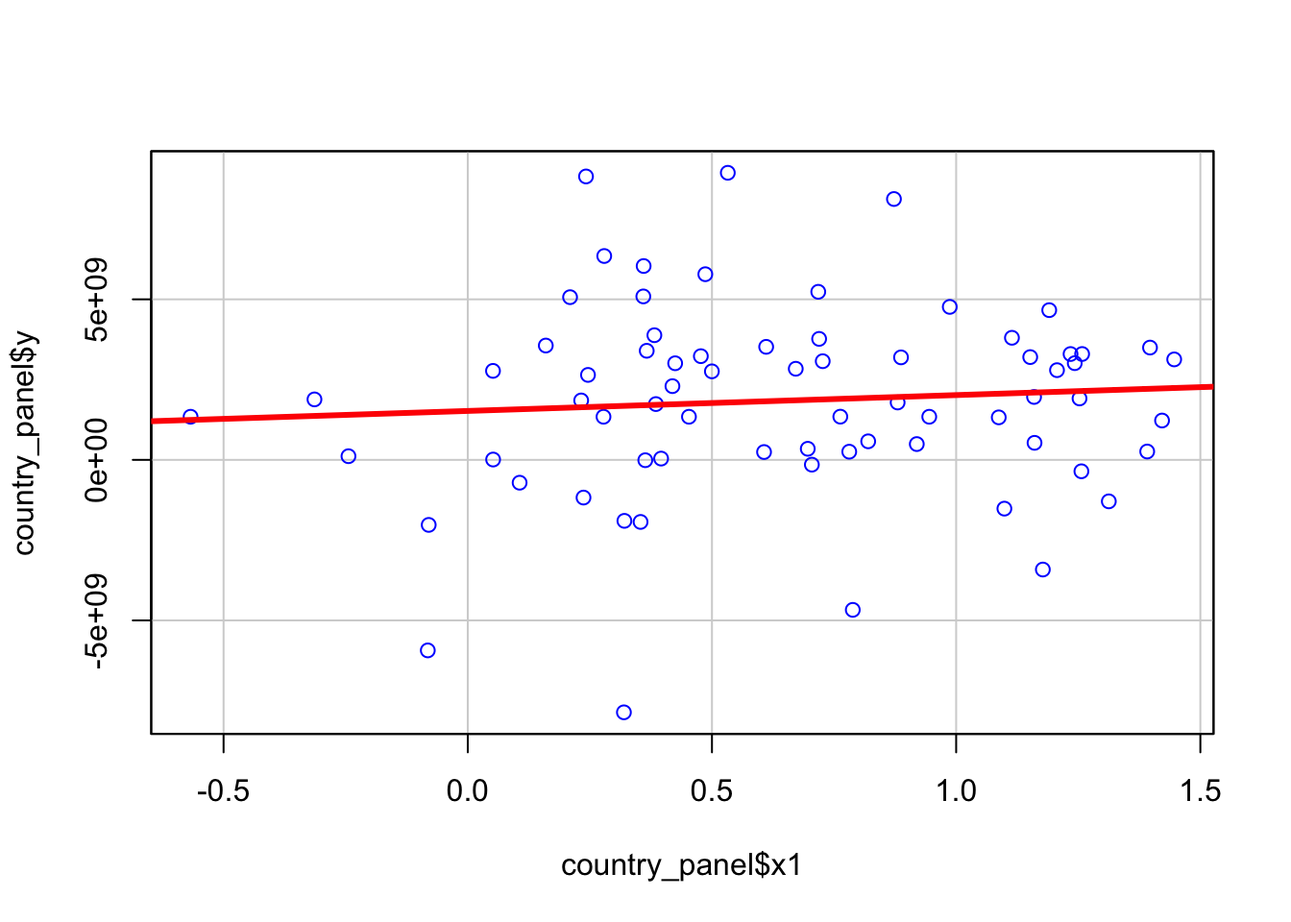
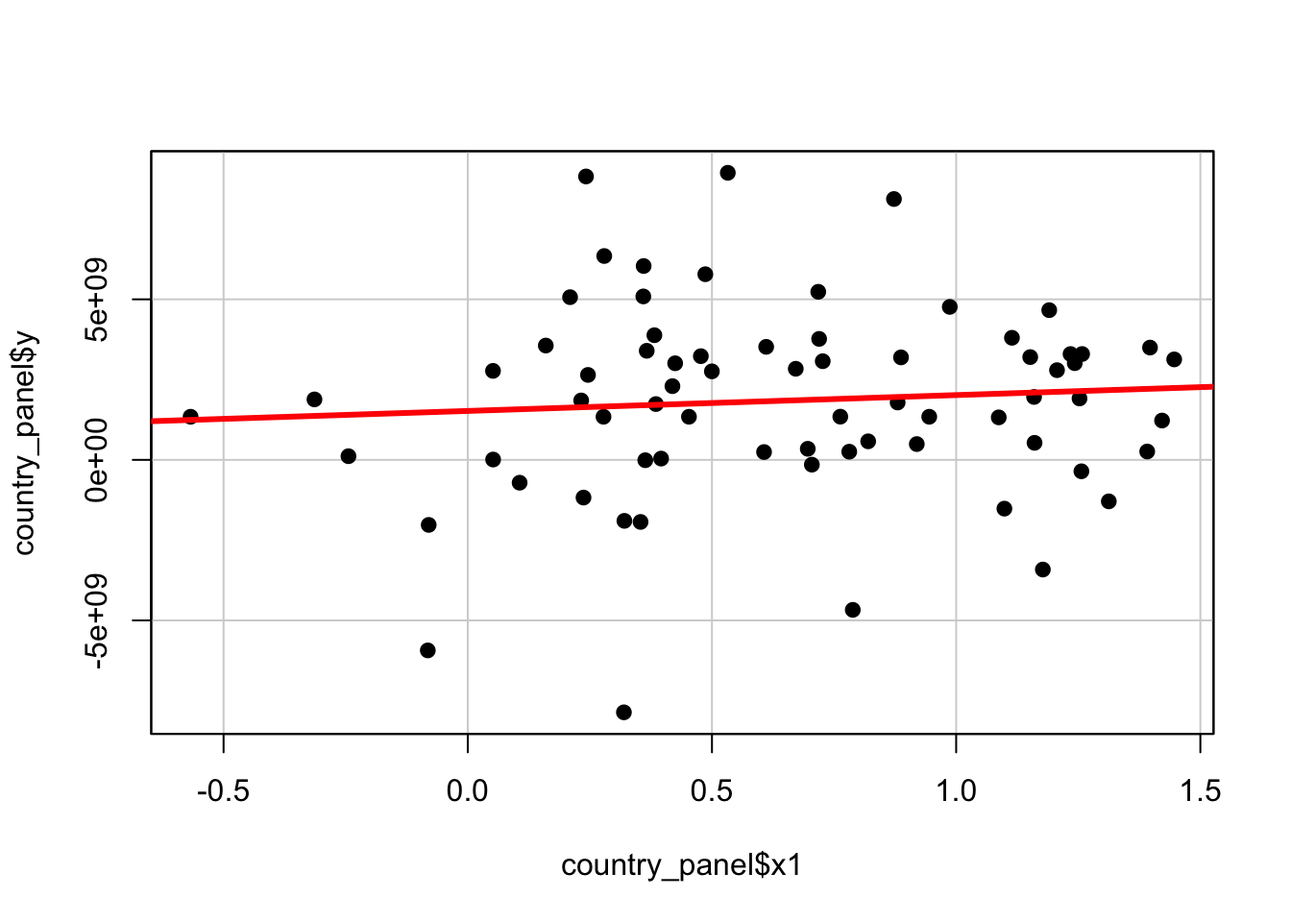
finish fixed effects section

diff --git a/docs/statistical-inference-and-causality.html b/docs/statistical-inference-and-causality.html
@@ -157,8 +157,7 @@ code span.wa { color: #60a0b0; font-weight: bold; font-style: italic; } /* Warni
 <ul>
 <li class="chapter" data-level="1.3.1" data-path="statistical-inference-and-causality.html"><a href="statistical-inference-and-causality.html#what-is-causality"><i class="fa fa-check"></i><b>1.3.1</b> What is causality?</a></li>
 <li class="chapter" data-level="1.3.2" data-path="statistical-inference-and-causality.html"><a href="statistical-inference-and-causality.html#the-problem-with-causality"><i class="fa fa-check"></i><b>1.3.2</b> The problem with causality</a></li>
-<li class="chapter" data-level="1.3.3" data-path="statistical-inference-and-causality.html"><a href="statistical-inference-and-causality.html#fixed-effect-models"><i class="fa fa-check"></i><b>1.3.3</b> Fixed-effect models</a></li>
-<li class="chapter" data-level="1.3.4" data-path="statistical-inference-and-causality.html"><a href="statistical-inference-and-causality.html#random-effect-models"><i class="fa fa-check"></i><b>1.3.4</b> Random-effect models</a></li>
+<li class="chapter" data-level="1.3.3" data-path="statistical-inference-and-causality.html"><a href="statistical-inference-and-causality.html#random-effect-models"><i class="fa fa-check"></i><b>1.3.3</b> Random effect models</a></li>
 </ul></li>
 <li class="chapter" data-level="1.4" data-path="statistical-inference-and-causality.html"><a href="statistical-inference-and-causality.html#take-home-message"><i class="fa fa-check"></i><b>1.4</b> Take home message</a></li>
 <li class="chapter" data-level="1.5" data-path="statistical-inference-and-causality.html"><a href="statistical-inference-and-causality.html#attributions_w02"><i class="fa fa-check"></i><b>1.5</b> Attributions</a></li>
@@ -261,20 +260,18 @@ predictive patterns” (Bzdok <em>et al.</em> 2018).</p>
 <div class="note">
 <p>This section heavily borrows material and explanations from Nick Huntington-Klein’s excellent <a href="http://www.nickchk.com/econ305.html">ECON 305: Economics, Causality, and Analytics</a> module, do have a look if you want to learn more about this topic.</p>
 </div>
-<p>This brings us to econometrics and causal inference: the main goal of causal inference is to make the best possible estimation of what <span class="math inline">\(Y\)</span> would have been if <span class="math inline">\(X\)</span> would have been different, the so-called <strong>counterfactual</strong>. As we cannot always use an experiment in which we can randomly assign <span class="math inline">\(X\)</span> so that we know that on average people with <span class="math inline">\(X=1\)</span> and the same as people with <span class="math inline">\(X=2\)</span>, we have to come up with a model to figure out what the counterfactual would do. In the following, we will explore two ways of doing this through so-called fixed-effect models and random effect-models in the situation in which we have data points for each observation across time (i.e. <a href="https://en.wikipedia.org/wiki/Longitudinal_study">longitudinal data</a> or <a href="https://en.wikipedia.org/wiki/Panel_data">panel data</a>).</p>
-</div>
-<div id="fixed-effect-models" class="section level3" number="1.3.3">
-<h3><span class="header-section-number">1.3.3</span> Fixed-effect models</h3>
-<p>Fixed effects are variables that are constant across individuals; these variables, like age, sex, or ethnicity, typically do not change over time or change over time at a constant rate. As such, they have fixed effects on a dependent variable <span class="math inline">\(Y\)</span>. Let’s have a closer look at dealing with fixed-effects in the context of panel data.</p>
+<p>This brings us to econometrics and causal inference: the main goal of causal inference is to make the best possible estimation of what <span class="math inline">\(Y\)</span> would have been if <span class="math inline">\(X\)</span> would have been different, the so-called <strong>counterfactual</strong>. As we cannot always use an experiment in which we can randomly assign <span class="math inline">\(X\)</span> so that we know that on average people with <span class="math inline">\(X=1\)</span> and the same as people with <span class="math inline">\(X=2\)</span>, we have to come up with a model to figure out what the counterfactual would do. In the following, we will explore two ways of doing this through so-called fixed effect models and random effect models in the situation in which we have data points for each observation across time (i.e. <a href="https://en.wikipedia.org/wiki/Longitudinal_study">longitudinal data</a> or <a href="https://en.wikipedia.org/wiki/Panel_data">panel data</a>).</p>
+<p>###Fixed effect models
+Fixed effects are variables that are constant across individuals; these variables, like age, sex, or ethnicity, typically do not change over time or change over time at a constant rate. As such, they have fixed effects on a dependent variable <span class="math inline">\(Y\)</span>. As such, using a fixed effect model you can explore the relationship between variables within an entity (which could be persons, companies, countries, etc.). Each entity has its own individual charactersitics that may or may not influence the dependent variable. When using a fixed effect model, we assume that something within the entity may impact or bias the dependent variables and we need to control for this. A fixed effect model does this by removing the characteristics that do not change over time so that we can assess the net effect of the independent variables on the dependent variable.</p>
 <div id="video-fixed-effect-models" class="section level4 unnumbered">
-<h4>Video: Fixed-effect models</h4>
+<h4>Video: fixed effect models</h4>
 <p><div class="vembedr" align="left">
 <div>
 <iframe src="https://web.microsoftstream.com/embed/video/?autoplay=false&amp;showinfo=true" width="533" height="300" style="border:none;"></iframe>
 </div>
 </div>
 <a href="">[Lecture slides]</a> <a href="">[Watch on MS stream]</a></p>
-<p>Let’s try to to apply a fixed-effect model in R. For this we will use a data set containing some <a href="https://en.wikipedia.org/wiki/Panel_data">panel data</a>. The data set contains data for some undefined variable <span class="math inline">\(Y\)</span> for different countries and years.</p>
+<p>Let’s try to to apply a fixed effect model in R. For this we will use a data set containing some <a href="https://en.wikipedia.org/wiki/Panel_data">panel data</a>. The data set contains data, for different countries and years, an undefined variable <span class="math inline">\(Y\)</span> that we want to explain with some other variables.</p>
 </div>
 <div id="file-download" class="section level4 unnumbered">
 <h4>File download</h4>
@@ -339,17 +336,17 @@ predictive patterns” (Bzdok <em>et al.</em> 2018).</p>
 <p><img src="GEOG0125_files/figure-html/02-co-plot-2.png" width="672" /></p>
 <p>The graphs show that there <span class="math inline">\(Y\)</span> is variable both over time and between countries. Let’s also have a look at the <a href="https://en.wikipedia.org/wiki/Homogeneity_and_heterogeneity">heterogeinity</a> of our data by plotting the means, and the 95% confidence interval around the means, of <span class="math inline">\(Y\)</span> accross time and accross countries.</p>
 <div class="sourceCode" id="cb8"><pre class="sourceCode r"><code class="sourceCode r"><span id="cb8-1"><a href="statistical-inference-and-causality.html#cb8-1" aria-hidden="true"></a><span class="co"># means accross years</span></span>
-<span id="cb8-2"><a href="statistical-inference-and-causality.html#cb8-2" aria-hidden="true"></a><span class="kw">plotmeans</span>(y <span class="op">~</span><span class="st"> </span>year, <span class="dt">data=</span>country_panel)</span>
-<span id="cb8-3"><a href="statistical-inference-and-causality.html#cb8-3" aria-hidden="true"></a></span>
-<span id="cb8-4"><a href="statistical-inference-and-causality.html#cb8-4" aria-hidden="true"></a><span class="co"># means accross countries</span></span>
-<span id="cb8-5"><a href="statistical-inference-and-causality.html#cb8-5" aria-hidden="true"></a><span class="kw">plotmeans</span>(y <span class="op">~</span><span class="st"> </span>year, <span class="dt">data=</span>country_panel)</span></code></pre></div>
+<span id="cb8-2"><a href="statistical-inference-and-causality.html#cb8-2" aria-hidden="true"></a><span class="kw">plotmeans</span>(y <span class="op">~</span><span class="st"> </span>year, <span class="dt">data=</span>country_panel)</span></code></pre></div>
 <p><img src="GEOG0125_files/figure-html/02-heterogeneity-1.png" width="672" /></p>
+<div class="sourceCode" id="cb9"><pre class="sourceCode r"><code class="sourceCode r"><span id="cb9-1"><a href="statistical-inference-and-causality.html#cb9-1" aria-hidden="true"></a><span class="co"># means accross countries</span></span>
+<span id="cb9-2"><a href="statistical-inference-and-causality.html#cb9-2" aria-hidden="true"></a><span class="kw">plotmeans</span>(y <span class="op">~</span><span class="st"> </span>country, <span class="dt">data=</span>country_panel)</span></code></pre></div>
+<p><img src="GEOG0125_files/figure-html/02-heterogeneity-2.png" width="672" /></p>
 <p>There is clearly some heterogeneity accross the countries and accross years. However, the basic Ordinary Least Squares (OLS) regression model does not consider this heterogeneity:</p>
-<div class="sourceCode" id="cb9"><pre class="sourceCode r"><code class="sourceCode r"><span id="cb9-1"><a href="statistical-inference-and-causality.html#cb9-1" aria-hidden="true"></a><span class="co"># run an OLS</span></span>
-<span id="cb9-2"><a href="statistical-inference-and-causality.html#cb9-2" aria-hidden="true"></a>ols &lt;-<span class="st"> </span><span class="kw">lm</span>(y <span class="op">~</span><span class="st"> </span>x1, <span class="dt">data=</span>country_panel)</span>
-<span id="cb9-3"><a href="statistical-inference-and-causality.html#cb9-3" aria-hidden="true"></a></span>
-<span id="cb9-4"><a href="statistical-inference-and-causality.html#cb9-4" aria-hidden="true"></a><span class="co"># summary</span></span>
-<span id="cb9-5"><a href="statistical-inference-and-causality.html#cb9-5" aria-hidden="true"></a><span class="kw">summary</span>(ols)</span></code></pre></div>
+<div class="sourceCode" id="cb10"><pre class="sourceCode r"><code class="sourceCode r"><span id="cb10-1"><a href="statistical-inference-and-causality.html#cb10-1" aria-hidden="true"></a><span class="co"># run an OLS</span></span>
+<span id="cb10-2"><a href="statistical-inference-and-causality.html#cb10-2" aria-hidden="true"></a>ols &lt;-<span class="st"> </span><span class="kw">lm</span>(y <span class="op">~</span><span class="st"> </span>x1, <span class="dt">data=</span>country_panel)</span>
+<span id="cb10-3"><a href="statistical-inference-and-causality.html#cb10-3" aria-hidden="true"></a></span>
+<span id="cb10-4"><a href="statistical-inference-and-causality.html#cb10-4" aria-hidden="true"></a><span class="co"># summary</span></span>
+<span id="cb10-5"><a href="statistical-inference-and-causality.html#cb10-5" aria-hidden="true"></a><span class="kw">summary</span>(ols)</span></code></pre></div>
 <pre><code>## 
 ## Call:
 ## lm(formula = y ~ x1, data = country_panel)
@@ -368,20 +365,86 @@ predictive patterns” (Bzdok <em>et al.</em> 2018).</p>
 ## Residual standard error: 3.028e+09 on 68 degrees of freedom
 ## Multiple R-squared:  0.005905,	Adjusted R-squared:  -0.008714 
 ## F-statistic: 0.4039 on 1 and 68 DF,  p-value: 0.5272</code></pre>
-<p>The resuls show that there is no statistical relationship between <span class="math inline">\(x_{1}\)</span> and the dependent variable <span class="math inline">\(Y\)</span> as the model tries to explain all variability in the data at once. You can clearly see this in the plot below:</p>
-<div class="sourceCode" id="cb11"><pre class="sourceCode r"><code class="sourceCode r"><span id="cb11-1"><a href="statistical-inference-and-causality.html#cb11-1" aria-hidden="true"></a><span class="co"># plot the results</span></span>
-<span id="cb11-2"><a href="statistical-inference-and-causality.html#cb11-2" aria-hidden="true"></a><span class="kw">scatterplot</span>(country_panel<span class="op">$</span>y <span class="op">~</span><span class="st"> </span>country_panel<span class="op">$</span>x1, <span class="dt">boxplots=</span><span class="ot">FALSE</span>, <span class="dt">smooth=</span><span class="ot">FALSE</span>)</span>
-<span id="cb11-3"><a href="statistical-inference-and-causality.html#cb11-3" aria-hidden="true"></a></span>
-<span id="cb11-4"><a href="statistical-inference-and-causality.html#cb11-4" aria-hidden="true"></a><span class="co"># add the OLS regression line</span></span>
-<span id="cb11-5"><a href="statistical-inference-and-causality.html#cb11-5" aria-hidden="true"></a><span class="kw">abline</span>(<span class="kw">lm</span>(y <span class="op">~</span><span class="st"> </span>x1, <span class="dt">data=</span>country_panel),<span class="dt">lwd=</span><span class="dv">3</span>, <span class="dt">col=</span><span class="st">&#39;red&#39;</span>)</span></code></pre></div>
+<p>The results show that there is no significant statistical relationship between <span class="math inline">\(x_{1}\)</span> and the dependent variable <span class="math inline">\(Y\)</span> as the model tries to explain all variability in the data at once. You can clearly see this in the plot below:</p>
+<div class="sourceCode" id="cb12"><pre class="sourceCode r"><code class="sourceCode r"><span id="cb12-1"><a href="statistical-inference-and-causality.html#cb12-1" aria-hidden="true"></a><span class="co"># plot the results</span></span>
+<span id="cb12-2"><a href="statistical-inference-and-causality.html#cb12-2" aria-hidden="true"></a><span class="kw">scatterplot</span>(country_panel<span class="op">$</span>y <span class="op">~</span><span class="st"> </span>country_panel<span class="op">$</span>x1, <span class="dt">boxplots=</span><span class="ot">FALSE</span>, <span class="dt">smooth=</span><span class="ot">FALSE</span>, <span class="dt">pch=</span><span class="dv">19</span>, <span class="dt">col=</span><span class="st">&#39;black&#39;</span>)</span>
+<span id="cb12-3"><a href="statistical-inference-and-causality.html#cb12-3" aria-hidden="true"></a></span>
+<span id="cb12-4"><a href="statistical-inference-and-causality.html#cb12-4" aria-hidden="true"></a><span class="co"># add the OLS regression line</span></span>
+<span id="cb12-5"><a href="statistical-inference-and-causality.html#cb12-5" aria-hidden="true"></a><span class="kw">abline</span>(<span class="kw">lm</span>(y <span class="op">~</span><span class="st"> </span>x1, <span class="dt">data=</span>country_panel),<span class="dt">lwd=</span><span class="dv">3</span>, <span class="dt">col=</span><span class="st">&#39;red&#39;</span>)</span></code></pre></div>
 <p><img src="GEOG0125_files/figure-html/02-plot-the-ols-1.png" width="672" /></p>
+<p>One way of getting around this, and fixing the effects of the <em>country</em> variable, is by using a model incorporating dummy variables through a Least Squares Dummy Variable model (LSDV).</p>
+<div class="sourceCode" id="cb13"><pre class="sourceCode r"><code class="sourceCode r"><span id="cb13-1"><a href="statistical-inference-and-causality.html#cb13-1" aria-hidden="true"></a><span class="co"># run a LSDV</span></span>
+<span id="cb13-2"><a href="statistical-inference-and-causality.html#cb13-2" aria-hidden="true"></a>fixed_dum &lt;-<span class="st"> </span><span class="kw">lm</span>(y <span class="op">~</span><span class="st"> </span>x1 <span class="op">+</span><span class="st"> </span><span class="kw">factor</span>(country) <span class="op">-</span><span class="st"> </span><span class="dv">1</span>, <span class="dt">data=</span>country_panel)</span>
+<span id="cb13-3"><a href="statistical-inference-and-causality.html#cb13-3" aria-hidden="true"></a></span>
+<span id="cb13-4"><a href="statistical-inference-and-causality.html#cb13-4" aria-hidden="true"></a><span class="co"># summary</span></span>
+<span id="cb13-5"><a href="statistical-inference-and-causality.html#cb13-5" aria-hidden="true"></a><span class="kw">summary</span>(fixed_dum)</span></code></pre></div>
+<pre><code>## 
+## Call:
+## lm(formula = y ~ x1 + factor(country) - 1, data = country_panel)
+## 
+## Residuals:
+##        Min         1Q     Median         3Q        Max 
+## -8.634e+09 -9.697e+08  5.405e+08  1.386e+09  5.612e+09 
+## 
+## Coefficients:
+##                    Estimate Std. Error t value Pr(&gt;|t|)    
+## x1                2.476e+09  1.107e+09   2.237  0.02889 *  
+## factor(country)A  8.805e+08  9.618e+08   0.916  0.36347    
+## factor(country)B -1.058e+09  1.051e+09  -1.006  0.31811    
+## factor(country)C -1.723e+09  1.632e+09  -1.056  0.29508    
+## factor(country)D  3.163e+09  9.095e+08   3.478  0.00093 ***
+## factor(country)E -6.026e+08  1.064e+09  -0.566  0.57329    
+##  [ reached getOption(&quot;max.print&quot;) -- omitted 2 rows ]
+## ---
+## Signif. codes:  0 &#39;***&#39; 0.001 &#39;**&#39; 0.01 &#39;*&#39; 0.05 &#39;.&#39; 0.1 &#39; &#39; 1
+## 
+## Residual standard error: 2.796e+09 on 62 degrees of freedom
+## Multiple R-squared:  0.4402,	Adjusted R-squared:  0.368 
+## F-statistic: 6.095 on 8 and 62 DF,  p-value: 8.892e-06</code></pre>
+<p>The least square dummy variable model (LSDV) provides a good way to understand fixed effects. By adding the dummy for each country, we are now estimating the pure effect of <span class="math inline">\(x_{1}\)</span> on <span class="math inline">\(Y\)</span>. Each dummy is absorbing the effects that are particular to each country. Where the independent variable <span class="math inline">\(x_{1}\)</span> was not significant in the OLS model, after controlling for differences across countries, <span class="math inline">\(x_{1}\)</span> became significant in the LSDV model. You can clearly see why this is happening in the plot below:</p>
+<div class="sourceCode" id="cb15"><pre class="sourceCode r"><code class="sourceCode r"><span id="cb15-1"><a href="statistical-inference-and-causality.html#cb15-1" aria-hidden="true"></a><span class="co"># plot the results</span></span>
+<span id="cb15-2"><a href="statistical-inference-and-causality.html#cb15-2" aria-hidden="true"></a><span class="kw">scatterplot</span>(fixed_dum<span class="op">$</span>fitted <span class="op">~</span><span class="st"> </span>country_panel<span class="op">$</span>x1<span class="op">|</span>country_panel<span class="op">$</span>country, <span class="dt">boxplots=</span><span class="ot">FALSE</span>, <span class="dt">smooth=</span><span class="ot">FALSE</span>, <span class="dt">col=</span><span class="st">&#39;black&#39;</span>)</span></code></pre></div>
+<pre><code>## Warning in scatterplot.default(X[, 2], X[, 1], groups = X[, 3], xlab = xlab, : number of groups exceeds number of available colors
+##   colors are recycled</code></pre>
+<div class="sourceCode" id="cb17"><pre class="sourceCode r"><code class="sourceCode r"><span id="cb17-1"><a href="statistical-inference-and-causality.html#cb17-1" aria-hidden="true"></a><span class="co"># add the LSDV regression lines</span></span>
+<span id="cb17-2"><a href="statistical-inference-and-causality.html#cb17-2" aria-hidden="true"></a><span class="kw">abline</span>(<span class="kw">lm</span>(y <span class="op">~</span><span class="st"> </span>x1, <span class="dt">data=</span>country_panel),<span class="dt">lwd=</span><span class="dv">3</span>, <span class="dt">col=</span><span class="st">&#39;red&#39;</span>)</span></code></pre></div>
+<p><img src="GEOG0125_files/figure-html/02-plot-the-lsdv-1.png" width="672" /></p>
+<p>We can also run a country-specific fixed effect model by using specific intercepts for each country. We can achieve this by using the <code>plm</code> package.</p>
+<div class="sourceCode" id="cb18"><pre class="sourceCode r"><code class="sourceCode r"><span id="cb18-1"><a href="statistical-inference-and-causality.html#cb18-1" aria-hidden="true"></a><span class="co"># run a fixed effect model</span></span>
+<span id="cb18-2"><a href="statistical-inference-and-causality.html#cb18-2" aria-hidden="true"></a>fixed &lt;-<span class="st"> </span><span class="kw">plm</span>(y <span class="op">~</span><span class="st"> </span>x1, <span class="dt">data=</span>country_panel, <span class="dt">model=</span><span class="st">&#39;within&#39;</span>)</span>
+<span id="cb18-3"><a href="statistical-inference-and-causality.html#cb18-3" aria-hidden="true"></a></span>
+<span id="cb18-4"><a href="statistical-inference-and-causality.html#cb18-4" aria-hidden="true"></a><span class="co"># summary</span></span>
+<span id="cb18-5"><a href="statistical-inference-and-causality.html#cb18-5" aria-hidden="true"></a><span class="kw">summary</span>(fixed)</span></code></pre></div>
+<pre><code>## Oneway (individual) effect Within Model
+## 
+## Call:
+## plm(formula = y ~ x1, data = country_panel, model = &quot;within&quot;)
+## 
+## Balanced Panel: n = 7, T = 10, N = 70
+## 
+## Residuals:
+##      Min.   1st Qu.    Median      Mean   3rd Qu.      Max. 
+## -8.63e+09 -9.70e+08  5.40e+08  0.00e+00  1.39e+09  5.61e+09 
+## 
+## Coefficients:
+##      Estimate Std. Error t-value Pr(&gt;|t|)  
+## x1 2475617742 1106675596   2.237  0.02889 *
+## ---
+## Signif. codes:  0 &#39;***&#39; 0.001 &#39;**&#39; 0.01 &#39;*&#39; 0.05 &#39;.&#39; 0.1 &#39; &#39; 1
+## 
+## Total Sum of Squares:    5.2364e+20
+## Residual Sum of Squares: 4.8454e+20
+## R-Squared:      0.074684
+## Adj. R-Squared: -0.029788
+## F-statistic: 5.00411 on 1 and 62 DF, p-value: 0.028892</code></pre>
+<p>Here you can check the individual intercepts through <code>fixef(fixed</code>). The coefficient of <span class="math inline">\(x_{1}\)</span> indicates how much <span class="math inline">\(Y\)</span> changes on average over time per country: as you can see the results are the same. Arguably, however, running your model with explicit dummy variables is more informative.</p>
 </div>
 </div>
-<div id="random-effect-models" class="section level3" number="1.3.4">
-<h3><span class="header-section-number">1.3.4</span> Random-effect models</h3>
-<p>Random effects are the opposite of fixed effects. Contrary to fixed effects, random effects are random and difficult to predict. As such, the effect they will have on a dependent variable <span class="math inline">\(Y\)</span> is not constant. Think of the cost of renting a one bedroom appartement: <a href="https://www.ons.gov.uk/economy/inflationandpriceindices/bulletins/indexofprivatehousingrentalprices/may2020#:~:text=Private%20rental%20prices%20paid%20by,12%20months%20to%20May%202020.">rental prices vary greatly</a> depending on location. Let’s have a closer look at dealing with random-effects in the context of panel data.</p>
+<div id="random-effect-models" class="section level3" number="1.3.3">
+<h3><span class="header-section-number">1.3.3</span> Random effect models</h3>
+<p>Random effects are the opposite of fixed effects. Contrary to fixed effects, random effects are random and difficult to predict. As such, the effect they will have on a dependent variable <span class="math inline">\(Y\)</span> is not constant. Think of the cost of renting a one bedroom appartement: <a href="https://www.ons.gov.uk/economy/inflationandpriceindices/bulletins/indexofprivatehousingrentalprices/may2020#:~:text=Private%20rental%20prices%20paid%20by,12%20months%20to%20May%202020.">rental prices vary greatly</a> depending on location. So if you have reason to believe that these differences across entities have some influence on the dependent variable, then you would use a random effects model approach. Let’s have a closer look at dealing with random effects in the context of panel data.</p>
 <div id="video-random-effect-models" class="section level4 unnumbered">
-<h4>Video: Random-effect models</h4>
+<h4>Video: random effect models</h4>
 <p><div class="vembedr" align="left">
 <div>
 <iframe src="https://web.microsoftstream.com/embed/video/?autoplay=false&amp;showinfo=true" width="533" height="300" style="border:none;"></iframe>

diff --git a/docs/index.html b/docs/index.html
@@ -157,8 +157,7 @@ code span.wa { color: #60a0b0; font-weight: bold; font-style: italic; } /* Warni
 <ul>
 <li class="chapter" data-level="1.3.1" data-path="statistical-inference-and-causality.html"><a href="statistical-inference-and-causality.html#what-is-causality"><i class="fa fa-check"></i><b>1.3.1</b> What is causality?</a></li>
 <li class="chapter" data-level="1.3.2" data-path="statistical-inference-and-causality.html"><a href="statistical-inference-and-causality.html#the-problem-with-causality"><i class="fa fa-check"></i><b>1.3.2</b> The problem with causality</a></li>
-<li class="chapter" data-level="1.3.3" data-path="statistical-inference-and-causality.html"><a href="statistical-inference-and-causality.html#fixed-effect-models"><i class="fa fa-check"></i><b>1.3.3</b> Fixed-effect models</a></li>
-<li class="chapter" data-level="1.3.4" data-path="statistical-inference-and-causality.html"><a href="statistical-inference-and-causality.html#random-effect-models"><i class="fa fa-check"></i><b>1.3.4</b> Random-effect models</a></li>
+<li class="chapter" data-level="1.3.3" data-path="statistical-inference-and-causality.html"><a href="statistical-inference-and-causality.html#random-effect-models"><i class="fa fa-check"></i><b>1.3.3</b> Random effect models</a></li>
 </ul></li>
 <li class="chapter" data-level="1.4" data-path="statistical-inference-and-causality.html"><a href="statistical-inference-and-causality.html#take-home-message"><i class="fa fa-check"></i><b>1.4</b> Take home message</a></li>
 <li class="chapter" data-level="1.5" data-path="statistical-inference-and-causality.html"><a href="statistical-inference-and-causality.html#attributions_w02"><i class="fa fa-check"></i><b>1.5</b> Attributions</a></li>

diff --git a/docs/spatial-temporal-mobility-analysis.html b/docs/spatial-temporal-mobility-analysis.html
@@ -157,8 +157,7 @@ code span.wa { color: #60a0b0; font-weight: bold; font-style: italic; } /* Warni
 <ul>
 <li class="chapter" data-level="1.3.1" data-path="statistical-inference-and-causality.html"><a href="statistical-inference-and-causality.html#what-is-causality"><i class="fa fa-check"></i><b>1.3.1</b> What is causality?</a></li>
 <li class="chapter" data-level="1.3.2" data-path="statistical-inference-and-causality.html"><a href="statistical-inference-and-causality.html#the-problem-with-causality"><i class="fa fa-check"></i><b>1.3.2</b> The problem with causality</a></li>
-<li class="chapter" data-level="1.3.3" data-path="statistical-inference-and-causality.html"><a href="statistical-inference-and-causality.html#fixed-effect-models"><i class="fa fa-check"></i><b>1.3.3</b> Fixed-effect models</a></li>
-<li class="chapter" data-level="1.3.4" data-path="statistical-inference-and-causality.html"><a href="statistical-inference-and-causality.html#random-effect-models"><i class="fa fa-check"></i><b>1.3.4</b> Random-effect models</a></li>
+<li class="chapter" data-level="1.3.3" data-path="statistical-inference-and-causality.html"><a href="statistical-inference-and-causality.html#random-effect-models"><i class="fa fa-check"></i><b>1.3.3</b> Random effect models</a></li>
 </ul></li>
 <li class="chapter" data-level="1.4" data-path="statistical-inference-and-causality.html"><a href="statistical-inference-and-causality.html#take-home-message"><i class="fa fa-check"></i><b>1.4</b> Take home message</a></li>
 <li class="chapter" data-level="1.5" data-path="statistical-inference-and-causality.html"><a href="statistical-inference-and-causality.html#attributions_w02"><i class="fa fa-check"></i><b>1.5</b> Attributions</a></li>

diff --git a/docs/unix-tools-and-database-management.html b/docs/unix-tools-and-database-management.html
@@ -157,8 +157,7 @@ code span.wa { color: #60a0b0; font-weight: bold; font-style: italic; } /* Warni
 <ul>
 <li class="chapter" data-level="1.3.1" data-path="statistical-inference-and-causality.html"><a href="statistical-inference-and-causality.html#what-is-causality"><i class="fa fa-check"></i><b>1.3.1</b> What is causality?</a></li>
 <li class="chapter" data-level="1.3.2" data-path="statistical-inference-and-causality.html"><a href="statistical-inference-and-causality.html#the-problem-with-causality"><i class="fa fa-check"></i><b>1.3.2</b> The problem with causality</a></li>
-<li class="chapter" data-level="1.3.3" data-path="statistical-inference-and-causality.html"><a href="statistical-inference-and-causality.html#fixed-effect-models"><i class="fa fa-check"></i><b>1.3.3</b> Fixed-effect models</a></li>
-<li class="chapter" data-level="1.3.4" data-path="statistical-inference-and-causality.html"><a href="statistical-inference-and-causality.html#random-effect-models"><i class="fa fa-check"></i><b>1.3.4</b> Random-effect models</a></li>
+<li class="chapter" data-level="1.3.3" data-path="statistical-inference-and-causality.html"><a href="statistical-inference-and-causality.html#random-effect-models"><i class="fa fa-check"></i><b>1.3.3</b> Random effect models</a></li>
 </ul></li>
 <li class="chapter" data-level="1.4" data-path="statistical-inference-and-causality.html"><a href="statistical-inference-and-causality.html#take-home-message"><i class="fa fa-check"></i><b>1.4</b> Take home message</a></li>
 <li class="chapter" data-level="1.5" data-path="statistical-inference-and-causality.html"><a href="statistical-inference-and-causality.html#attributions_w02"><i class="fa fa-check"></i><b>1.5</b> Attributions</a></li>

diff --git a/docs/web-visualisation.html b/docs/web-visualisation.html
@@ -157,8 +157,7 @@ code span.wa { color: #60a0b0; font-weight: bold; font-style: italic; } /* Warni
 <ul>
 <li class="chapter" data-level="1.3.1" data-path="statistical-inference-and-causality.html"><a href="statistical-inference-and-causality.html#what-is-causality"><i class="fa fa-check"></i><b>1.3.1</b> What is causality?</a></li>
 <li class="chapter" data-level="1.3.2" data-path="statistical-inference-and-causality.html"><a href="statistical-inference-and-causality.html#the-problem-with-causality"><i class="fa fa-check"></i><b>1.3.2</b> The problem with causality</a></li>
-<li class="chapter" data-level="1.3.3" data-path="statistical-inference-and-causality.html"><a href="statistical-inference-and-causality.html#fixed-effect-models"><i class="fa fa-check"></i><b>1.3.3</b> Fixed-effect models</a></li>
-<li class="chapter" data-level="1.3.4" data-path="statistical-inference-and-causality.html"><a href="statistical-inference-and-causality.html#random-effect-models"><i class="fa fa-check"></i><b>1.3.4</b> Random-effect models</a></li>
+<li class="chapter" data-level="1.3.3" data-path="statistical-inference-and-causality.html"><a href="statistical-inference-and-causality.html#random-effect-models"><i class="fa fa-check"></i><b>1.3.3</b> Random effect models</a></li>
 </ul></li>
 <li class="chapter" data-level="1.4" data-path="statistical-inference-and-causality.html"><a href="statistical-inference-and-causality.html#take-home-message"><i class="fa fa-check"></i><b>1.4</b> Take home message</a></li>
 <li class="chapter" data-level="1.5" data-path="statistical-inference-and-causality.html"><a href="statistical-inference-and-causality.html#attributions_w02"><i class="fa fa-check"></i><b>1.5</b> Attributions</a></li>
